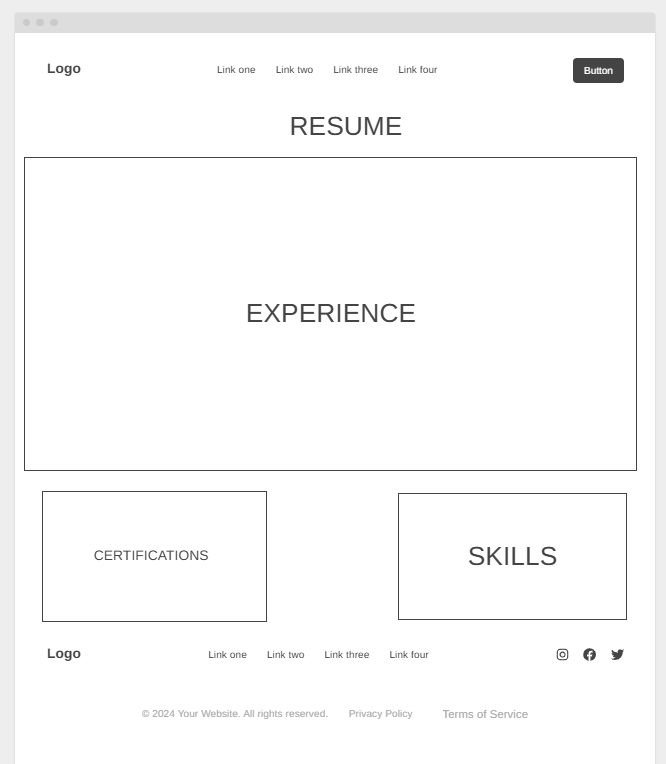
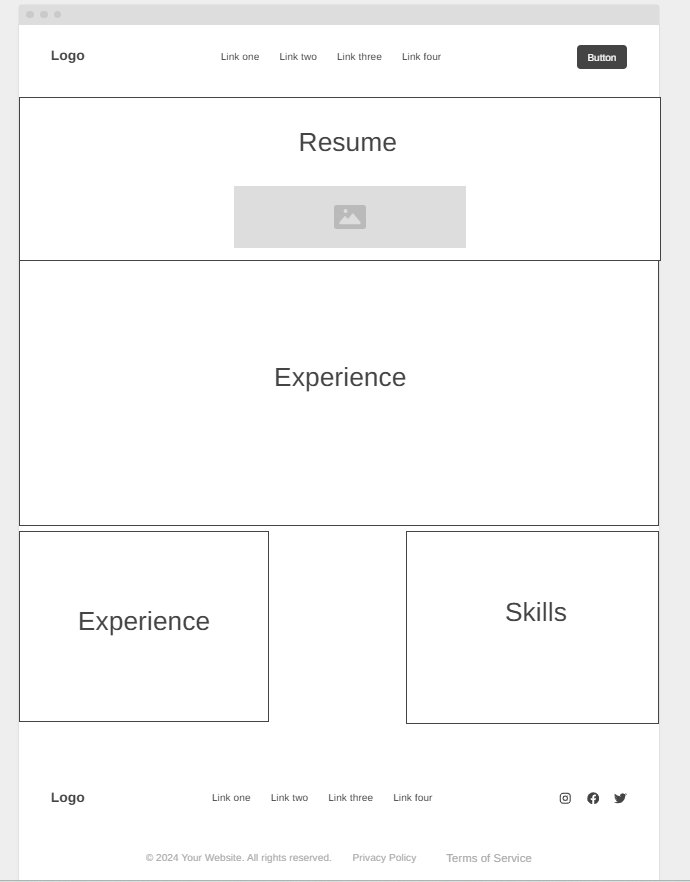
charge

diff --git a/personal-website-pt2/site-plan.html b/personal-website-pt2/site-plan.html
@@ -157,20 +157,22 @@ Employers will visit my site because it provides a more personalized and compreh
       </ul>
       <h3>[Page 2]</h3>
       <p>
-        My Resume & Experience
+        My Work & Projects
       </p>
       <p>Images for the Page 2</p>
         <img src="images/road.jpg" alt="image for page">
         <img src="images/forest.jpg" alt="image for page">
+        <img src="images/code.jpg" alt="image for page">
+        <img src="images/Security.jpg" alt="image for page">
 
       </ul>
       <h3>[Page 3]</h3>
       <p>
-        My Work & Projects
+        My Resume & Experience
       </p>
       <p>Images for the Page 3</p>
-        <img src="images/Security.jpg" alt="image for page3">
-        <img src="images/code.jpg" alt="image for page3">
+        <img src="images/logo.jpg" alt="image for page3">
+        <img src="images/selfie.jpg" alt="image for page3">
 
       </ul>
       <hr>
@@ -196,7 +198,7 @@ Employers will visit my site because it provides a more personalized and compreh
       <p>         
         I am going to upload a picture of a predesigned resume to the screen where it says resume and then under it I will list my skills and certifications
       </p>
-      <img src="images/resume-wireframe.png" alt="page 3 wireframe">
+      <img src="images/Resume-wireframe.png" alt="page 3 wireframe">
     </main>
   </body>
 

diff --git a/personal-website-pt2/styles/resume.css b/personal-website-pt2/styles/resume.css
@@ -76,6 +76,45 @@ nav a:hover {
     background-color: var(--accent1);
 }
 
+/* Profile Section */
+.profile-section {
+    display: flex;
+    flex-direction: column;
+    align-items: center;
+    margin: 30px 0;
+    padding: 20px;
+    background-color: var(--accent2);
+    border-radius: 8px;
+}
+
+.profile-photo {
+    width: 180px;
+    height: 180px;
+    border-radius: 50%;
+    overflow: hidden;
+    border: 4px solid var(--accent1);
+    box-shadow: 0 4px 8px rgba(0, 0, 0, 0.1);
+    margin-bottom: 15px;
+}
+
+.profile-photo img {
+    width: 100%;
+    height: 100%;
+    object-fit: cover;
+}
+
+.profile-name {
+    margin: 10px 0 5px;
+    color: var(--primary);
+}
+
+.profile-title {
+    color: var(--accent1);
+    font-style: italic;
+    margin-bottom: 10px;
+    font-weight: 500;
+}
+
 /* Main Content */
 main {
     background-color: white;
@@ -179,5 +218,14 @@ footer {
     
     .bottom-section {
         grid-template-columns: 1fr;
+    }
+    
+    .profile-section {
+        padding: 15px;
+    }
+    
+    .profile-photo {
+        width: 150px;
+        height: 150px;
     }
 }

diff --git a/personal-website-pt2/resume.html b/personal-website-pt2/resume.html
@@ -27,6 +27,15 @@
         <main>
             <h1>RESUME</h1>
             
+            <!-- Added profile photo section here -->
+            <div class="profile-section">
+                <div class="profile-photo">
+                    <img src="images/selfie.jpg" alt="Donovan Ladle">
+                </div>
+                <h2 class="profile-name">Donovan Ladle</h2>
+                <p class="profile-title">Web Developer & Computer Science Student</p>
+            </div>
+            
             <div class="main-box">
                 <h2>EXPERIENCE</h2>
                 <div class="experience-content">
